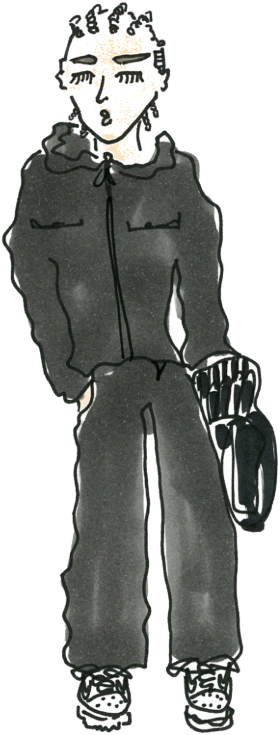
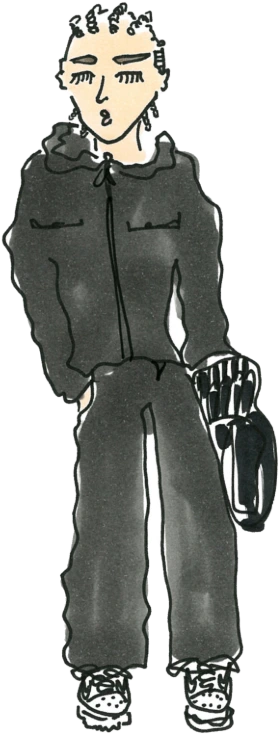
街の人を切り直し、手前の2人を大きく手前へ
【切り抜き】8人とも元の絵から切り直した。
これまでは顔の肌や白い服が抜けていた。髪の毛の隙間から外の白が
顔までつながっていて、そこから流し込みが漏れていたため。白い紙の
上で見ると気づかないが、街の写真に載せると背景が透ける。
今度は線をいったん12px太らせて隙間を塞いでから外側を流し込み、
線のきわまで戻してから抜く。色を塗り足していないので、肌も白い服も
元の絵のまま残る。元の絵は「街中人々」の6枚と「ラスト素材」の2枚。

【立ち位置】人なしの写真から両方とも焼き直した。
手前の2人を大きくして、ぐっと手前へ出した。
スマホは見える幅が 0.21〜0.79 しかないので、手前2人を大きくすると
中ほどに置ける人数が減る。03 はスマホ版から外し、7人にした。
広い画面は8人のまま。

画像の名前は同じなので ?v=3 に上げて読み直させる。

Changed region(s): [[0.2286, 0.0299, 0.6, 0.2395]]

diff --git a/index.html b/index.html
@@ -417,7 +417,7 @@ addEventListener('load',function(){ clearTimeout(t); setTimeout(go,3500); });
   var layers=[].slice.call(g.querySelectorAll('.street i'));
   var small=matchMedia('(max-width:760px)').matches;
   /* ?v は焼き直した街を確実に読ませるための番号。焼き直したら上げる */
-  function src(n){ return 'naoto-assets/street/'+n+(small?'@700w':'')+'.webp?v=2'; }
+  function src(n){ return 'naoto-assets/street/'+n+(small?'@700w':'')+'.webp?v=3'; }
   function load(i){
     var el=layers[i];
     if(!el||el.dataset.loaded) return;
